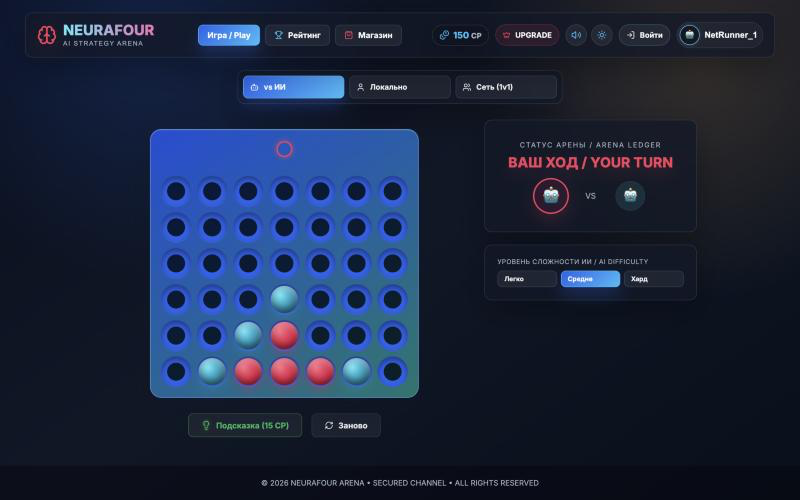
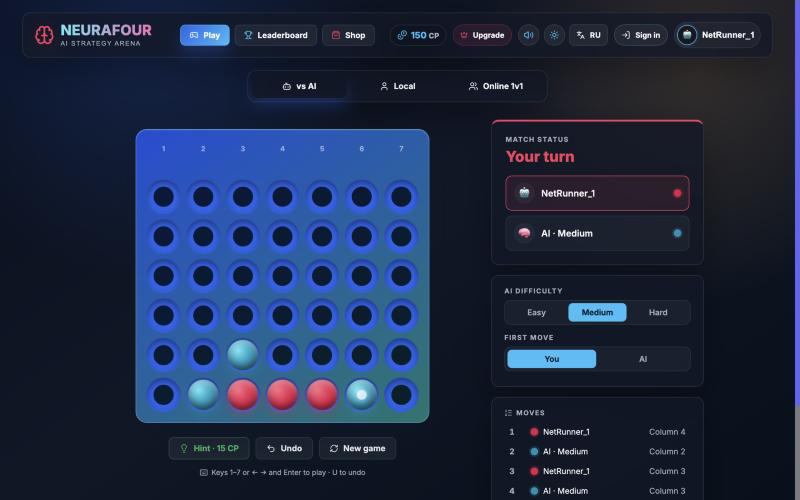
Update README features and screenshot for the new design

diff --git a/README.md b/README.md
@@ -15,7 +15,9 @@
 - **AI Coach.** After each game, every move is graded (perfect / great / good / mistake / blunder) against the engine's best move. The coach points out missed wins, missed blocks and moves that handed your opponent a win.
 - **Accounts and leaderboard.** Supabase auth, with a global and per-city leaderboard and match history. It works offline too, using a localStorage cache.
 - **Progression.** Levels, CyberPoints, a skin shop, and a PRO tier prototype.
-- Dark/light theme, responsive layout, sound effects, and a highlighted winning line.
+- **English / Russian interface.** A full translation system with a one-click switch. It remembers your choice and defaults to your browser's language.
+- **Play your way.** Keyboard controls (`1`–`7`, or `←`/`→` + `Enter`, and `U` to undo), undo, a choice of who moves first against the AI, a live move list, and a ghost preview of where your token will land.
+- Dark/light theme, responsive layout down to phone width, sound effects, a highlighted winning line, and in-app notifications. Animations are reduced if your system asks for less motion.
 
 ## How the AI works
 
